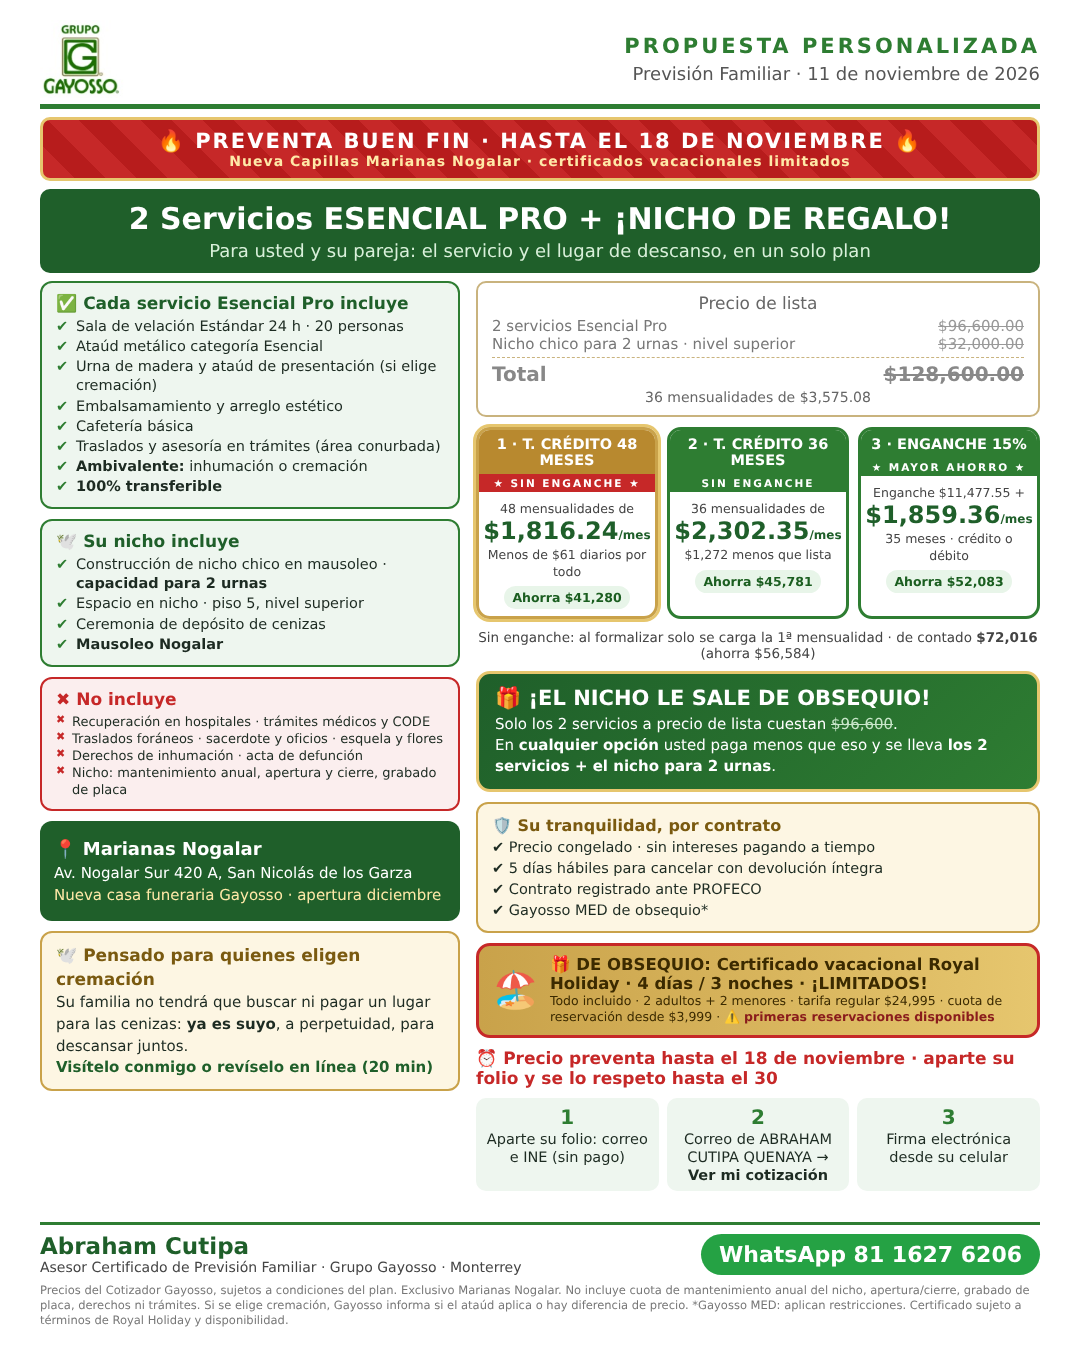
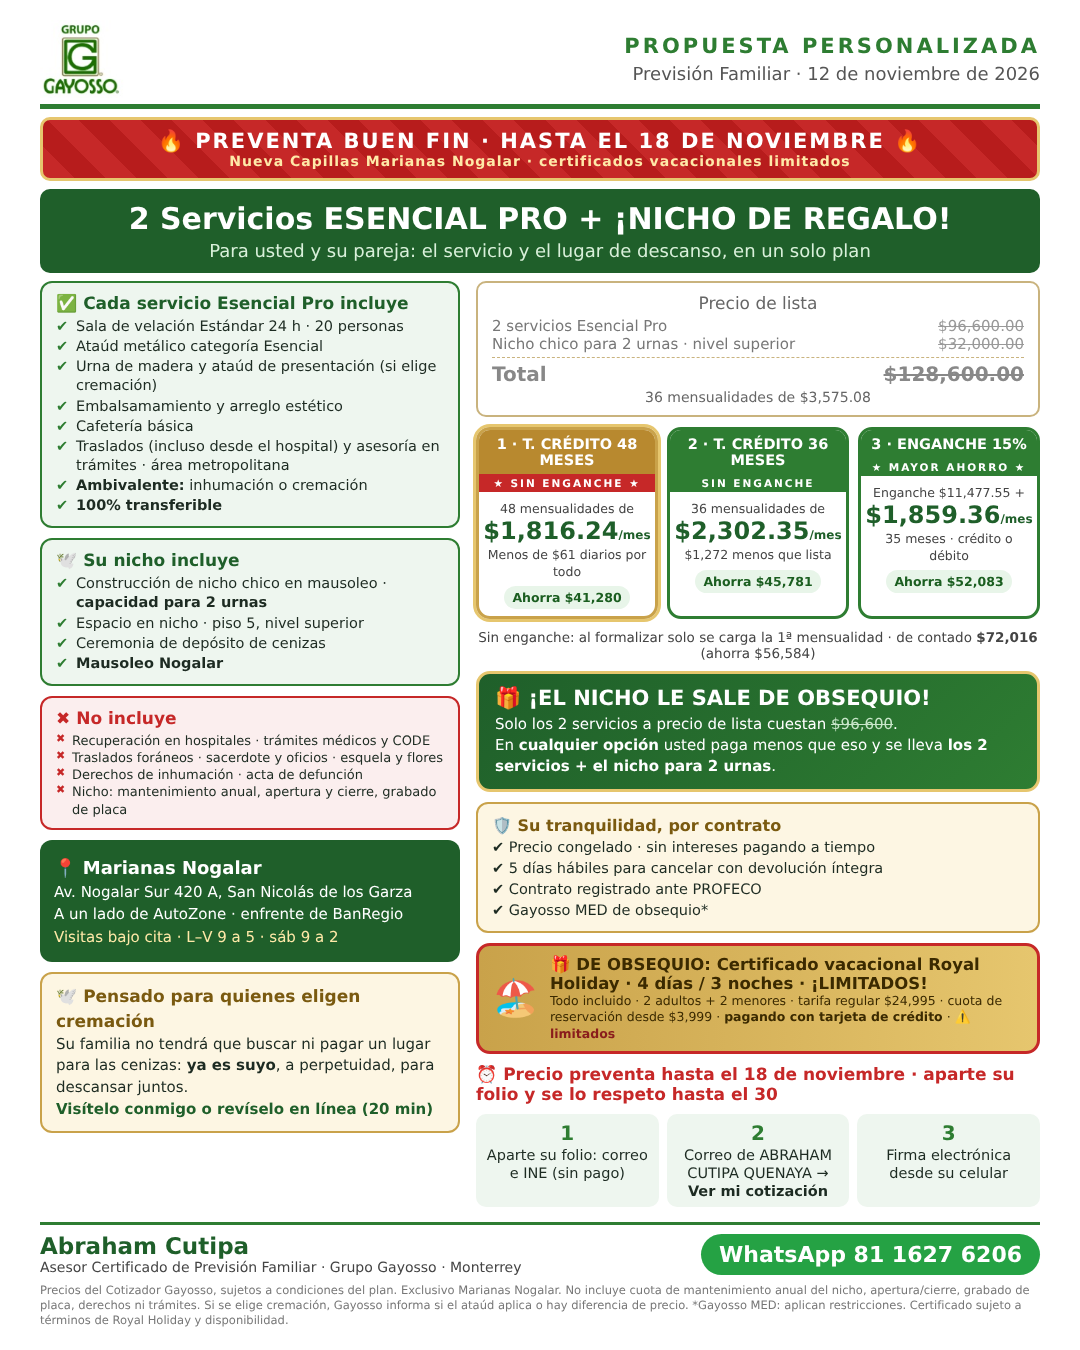
Primer contacto nicho Nogalar: certificado con TDC, traslado desde hospital y referencias de ubicación
Claude-Session: https://claude.ai/code/session_01PccRGVGwaaPKDitcWkgoNs

Changed region(s): [[0.0306, 0.3111, 0.9778, 0.9022]]

diff --git a/propuesta/primer_contacto_nicho_nogalar.html b/propuesta/primer_contacto_nicho_nogalar.html
@@ -63,7 +63,7 @@ body{width:1080px;height:1350px;font-family:"DejaVu Sans",Arial,sans-serif;backg
    <li>Urna de madera y ataúd de presentación (si elige cremación)</li>
    <li>Embalsamamiento y arreglo estético</li>
    <li>Cafetería básica</li>
-   <li>Traslados y asesoría en trámites (área conurbada)</li>
+   <li>Traslados (incluso desde el hospital) y asesoría en trámites · área metropolitana</li>
    <li><b>Ambivalente:</b> inhumación o cremación</li>
    <li><b>100% transferible</b></li></ul></div>
   <div class="box inc"><h3>🕊 Su nicho incluye</h3><ul>
@@ -76,7 +76,7 @@ body{width:1080px;height:1350px;font-family:"DejaVu Sans",Arial,sans-serif;backg
    <li>Traslados foráneos · sacerdote y oficios · esquela y flores</li>
    <li>Derechos de inhumación · acta de defunción</li>
    <li>Nicho: mantenimiento anual, apertura y cierre, grabado de placa</li></ul></div>
-  <div class="box" style="background:#1f5f2a;color:#fff;font-size:15px;line-height:1.5;padding:14px"><b style="font-size:18px">📍 Marianas Nogalar</b><br>Av. Nogalar Sur 420 A, San Nicolás de los Garza<br><span style="color:#ffe9a8">Nueva casa funeraria Gayosso · apertura diciembre</span></div>
+  <div class="box" style="background:#1f5f2a;color:#fff;font-size:15px;line-height:1.5;padding:14px"><b style="font-size:18px">📍 Marianas Nogalar</b><br>Av. Nogalar Sur 420 A, San Nicolás de los Garza<br>A un lado de AutoZone · enfrente de BanRegio<br><span style="color:#ffe9a8">Visitas bajo cita · L–V 9 a 5 · sáb 9 a 2</span></div>
   <div class="box" style="background:#fdf6e3;border:2px solid #c9a24a;font-size:15px;line-height:1.45"><b style="color:#7a5a10;font-size:17px">🕊 Pensado para quienes eligen cremación</b><br>Su familia no tendrá que buscar ni pagar un lugar para las cenizas: <b>ya es suyo</b>, a perpetuidad, para descansar juntos.<br><span style="color:#1f5f2a;font-weight:bold">Visítelo conmigo o revíselo en línea (20 min)</span></div>
  </div>
  <div class="right">
@@ -93,7 +93,7 @@ body{width:1080px;height:1350px;font-family:"DejaVu Sans",Arial,sans-serif;backg
   <div style="text-align:center;font-size:13.5px;color:#444">Sin enganche: al formalizar solo se carga la 1ª mensualidad · de contado <b>$72,016</b> (ahorra $56,584)</div>
   <div class="nicho"><div class="t">🎁 ¡EL NICHO LE SALE DE OBSEQUIO!</div><div class="s">Solo los 2 servicios a precio de lista cuestan <s>$96,600</s>.<br>En <b>cualquier opción</b> usted paga menos que eso y se lleva <b>los 2 servicios + el nicho para 2 urnas</b>.</div></div>
   <div class="box" style="background:#fdf6e3;border:2px solid #c9a24a;font-size:14.5px;line-height:1.45"><b style="color:#7a5a10;font-size:16px">🛡 Su tranquilidad, por contrato</b><br>✔ Precio congelado · sin intereses pagando a tiempo<br>✔ 5 días hábiles para cancelar con devolución íntegra<br>✔ Contrato registrado ante PROFECO<br>✔ Gayosso MED de obsequio*</div>
-  <div class="gift"><div class="i">🏖</div><div><div class="t">🎁 DE OBSEQUIO: Certificado vacacional Royal Holiday · 4 días / 3 noches · ¡LIMITADOS!</div><div class="s">Todo incluido · 2 adultos + 2 menores · tarifa regular $24,995 · cuota de reservación desde $3,999 · <b style="color:#8a1c1c">⚠ primeras reservaciones disponibles</b></div></div></div>
+  <div class="gift"><div class="i">🏖</div><div><div class="t">🎁 DE OBSEQUIO: Certificado vacacional Royal Holiday · 4 días / 3 noches · ¡LIMITADOS!</div><div class="s">Todo incluido · 2 adultos + 2 menores · tarifa regular $24,995 · cuota de reservación desde $3,999 · <b>pagando con tarjeta de crédito</b> · <b style="color:#8a1c1c">⚠ limitados</b></div></div></div>
   <div class="vig">⏰ Precio preventa hasta el 18 de noviembre · aparte su folio y se lo respeto hasta el 30</div>
   <div class="steps"><div class="st"><b class="n">1</b>Aparte su folio: correo e INE (sin pago)</div><div class="st"><b class="n">2</b>Correo de ABRAHAM CUTIPA QUENAYA → <b>Ver mi cotización</b></div><div class="st"><b class="n">3</b>Firma electrónica desde su celular</div></div>
  </div>
